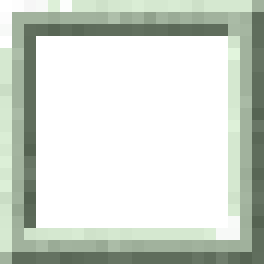
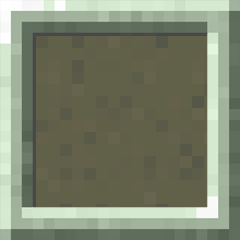
Add files via upload

diff --git a/js/playScreen.js b/js/playScreen.js
@@ -1,4 +1,5 @@
 const playScreen = document.querySelector(".play-screen");
+const screenWidth = document.querySelector(".width-input");
 
 const blocksObj = {
     0: "stone",
@@ -10,38 +11,53 @@ const blocksObj = {
     6: "none",
 };
 
-const blocksMatrix = [
-    [6, 6, 6, 6, 6, 6, 6, 6, 6, 6, 6, 6, 6, 6, 6, 6, 6, 6, 6, 6,],
-    [6, 6, 5, 5, 6, 6, 6, 6, 6, 6, 6, 6, 6, 6, 6, 6, 6, 6, 6, 6,],
-    [6, 6, 6, 5, 5, 6, 6, 6, 6, 6, 6, 6, 6, 6, 5, 5, 6, 6, 6, 6,],
-    [6, 6, 6, 6, 6, 6, 6, 6, 6, 6, 6, 6, 6, 5, 5, 5, 5, 6, 6, 6,],
-    [6, 6, 6, 6, 6, 6, 6, 6, 6, 6, 6, 6, 6, 6, 6, 6, 6, 6, 6, 6,],
-    [6, 6, 6, 6, 6, 6, 6, 6, 6, 6, 6, 6, 6, 6, 6, 6, 6, 6, 6, 6,],
-    [6, 6, 4, 6, 6, 6, 6, 6, 6, 6, 6, 6, 6, 6, 6, 6, 6, 6, 6, 6,],
-    [6, 4, 4, 4, 6, 6, 6, 6, 6, 6, 6, 6, 6, 6, 6, 6, 6, 6, 6, 6,],
-    [6, 4, 4, 4, 6, 6, 6, 6, 6, 6, 6, 6, 6, 6, 6, 6, 6, 6, 6, 6,],
-    [6, 6, 3, 6, 6, 6, 6, 2, 2, 6, 6, 6, 6, 6, 6, 6, 4, 6, 6, 6,],
-    [6 ,6 ,3, 6, 2, 2, 2, 1, 1, 2, 2, 6, 6, 6, 6, 6, 4, 6, 6, 6,],
-    [2, 2, 1, 2, 1, 1, 1, 1, 1, 1, 1, 2, 2, 2, 6, 6, 3, 6, 6, 6,],
-    [1, 1, 1, 1, 1, 1, 1, 1, 1, 1, 1, 1, 1, 1, 2, 2, 1, 2, 2, 2,],
-    [1, 1, 1, 1, 1, 1, 1, 0, 0, 1, 1, 1, 1, 1, 1, 1, 1, 1, 1, 1,],
-    [1, 1, 1, 1, 0, 0, 0, 0, 0, 0, 0, 1, 1, 1, 1, 1, 1, 1, 1, 1,],
-    [0, 0, 0, 0, 0, 0, 0, 0, 0, 0, 0, 0, 0, 0, 1, 1, 1, 1, 1, 1,],
-    [0, 0, 0, 0, 0, 0, 0, 0, 0, 0, 0, 0, 0, 0, 0, 0, 0, 0, 0, 0,],
-    [0, 0, 0, 0, 0, 0, 0, 0, 0, 0, 0, 0, 0, 0, 0, 0, 0, 0, 0, 0,],
-    [0, 0, 0, 0, 0, 0, 0, 0, 0, 0, 0, 0, 0, 0, 0, 0, 0, 0, 0, 0,],
-    [0, 0, 0, 0, 0, 0, 0, 0, 0, 0, 0, 0, 0, 0, 0, 0, 0, 0, 0, 0,],
-];
+const blocksMatrix = [];
+
+// const blockDimensions = screenWidth.value / 30;
+
+function readyScreen() {
+    playScreen.style.width = screenWidth.value + "px";
+    // ready an appropirate matrix
+    for (let i = 0; i < 20; i++) {
+        blocksMatrix.push([]);
+        for (let j = 0; j < 30; j++) {
+            blocksMatrix[i].push(6);
+        }
+    }
+
+    // fill in the stone layers
+    for (let i = 19; i > 16; i--) {
+        for (let j = 0; j <  blocksMatrix[i].length; j++) {
+            blocksMatrix[i][j] = 0;
+        }
+    }
+
+    // fill in the dirt
+    for (let i = 16; i > 14; i--) {
+        for (let j = 0; j <  blocksMatrix[i].length; j++) {
+            blocksMatrix[i][j] = 1;
+        }
+    }
+
+    // fill in the grass
+    for (let i = 14; i > 13; i--) {
+        for (let j = 0; j <  blocksMatrix[i].length; j++) {
+            blocksMatrix[i][j] = 2;
+        }
+    }
+}
 
 export function draw() {
+    readyScreen();
     for (let i = 0; i < blocksMatrix.length; i++) {
         for (let j = 0; j < blocksMatrix[i].length; j++) {
             const block = document.createElement("div");
             block.classList.add(blocksObj[blocksMatrix[i][j]]);
-            block.classList.add("square");
             block.setAttribute("x", j);
             block.setAttribute("y", i);
-            playScreen.appendChild(block)
+            playScreen.appendChild(block);
+            // block.style.height = blockDimensions + "px";
+            // block.style.width = blockDimensions + "px";
         }
     }
 }
@@ -55,6 +71,43 @@ export function draw() {
 
 
 
+
+
+// const blocksMatrix = [
+//     [6, 6, 6, 6, 6, 6, 6, 6, 6, 6, 6, 6, 6, 6, 6, 6, 6, 6, 6, 6,],
+//     [6, 6, 5, 5, 6, 6, 6, 6, 6, 6, 6, 6, 6, 6, 6, 6, 6, 6, 6, 6,],
+//     [6, 6, 6, 5, 5, 6, 6, 6, 6, 6, 6, 6, 6, 6, 5, 5, 6, 6, 6, 6,],
+//     [6, 6, 6, 6, 6, 6, 6, 6, 6, 6, 6, 6, 6, 5, 5, 5, 5, 6, 6, 6,],
+//     [6, 6, 6, 6, 6, 6, 6, 6, 6, 6, 6, 6, 6, 6, 6, 6, 6, 6, 6, 6,],
+//     [6, 6, 6, 6, 6, 6, 6, 6, 6, 6, 6, 6, 6, 6, 6, 6, 6, 6, 6, 6,],
+//     [6, 6, 4, 6, 6, 6, 6, 6, 6, 6, 6, 6, 6, 6, 6, 6, 6, 6, 6, 6,],
+//     [6, 4, 4, 4, 6, 6, 6, 6, 6, 6, 6, 6, 6, 6, 6, 6, 6, 6, 6, 6,],
+//     [6, 4, 4, 4, 6, 6, 6, 6, 6, 6, 6, 6, 6, 6, 6, 6, 6, 6, 6, 6,],
+//     [6, 6, 3, 6, 6, 6, 6, 2, 2, 6, 6, 6, 6, 6, 6, 6, 4, 6, 6, 6,],
+//     [6 ,6 ,3, 6, 2, 2, 2, 1, 1, 2, 2, 6, 6, 6, 6, 6, 4, 6, 6, 6,],
+//     [2, 2, 1, 2, 1, 1, 1, 1, 1, 1, 1, 2, 2, 2, 6, 6, 3, 6, 6, 6,],
+//     [1, 1, 1, 1, 1, 1, 1, 1, 1, 1, 1, 1, 1, 1, 2, 2, 1, 2, 2, 2,],
+//     [1, 1, 1, 1, 1, 1, 1, 0, 0, 1, 1, 1, 1, 1, 1, 1, 1, 1, 1, 1,],
+//     [1, 1, 1, 1, 0, 0, 0, 0, 0, 0, 0, 1, 1, 1, 1, 1, 1, 1, 1, 1,],
+//     [0, 0, 0, 0, 0, 0, 0, 0, 0, 0, 0, 0, 0, 0, 1, 1, 1, 1, 1, 1,],
+//     [0, 0, 0, 0, 0, 0, 0, 0, 0, 0, 0, 0, 0, 0, 0, 0, 0, 0, 0, 0,],
+//     [0, 0, 0, 0, 0, 0, 0, 0, 0, 0, 0, 0, 0, 0, 0, 0, 0, 0, 0, 0,],
+//     [0, 0, 0, 0, 0, 0, 0, 0, 0, 0, 0, 0, 0, 0, 0, 0, 0, 0, 0, 0,],
+//     [0, 0, 0, 0, 0, 0, 0, 0, 0, 0, 0, 0, 0, 0, 0, 0, 0, 0, 0, 0,],
+// ];
+
+// export function draw() {
+//     for (let i = 0; i < blocksMatrix.length; i++) {
+//         for (let j = 0; j < blocksMatrix[i].length; j++) {
+//             const block = document.createElement("div");
+//             block.classList.add(blocksObj[blocksMatrix[i][j]]);
+//             block.classList.add("square");
+//             block.setAttribute("x", j);
+//             block.setAttribute("y", i);
+//             playScreen.appendChild(block)
+//         }
+//     }
+// }
 
 // const blocksMatrix = [
 //     ["none","none","cloud","cloud","none","none","none","none","none","none","none","none","none","none","none","none","none","none","none","none",],

diff --git a/js/inventory.js b/js/inventory.js
@@ -1,19 +1,65 @@
+const inventory = document.querySelectorAll(".slot");
+const inventoryArr = [...inventory];
 
-
-const inventory = {
-    "pickaxe": false,
-    "axe": false,
-    "shovel": false,
-    "dirt": 0,
-    "cobblestone": 0,
-    "oak log": 0,
-    "oak leaves": 0,
+const tools = {
+    pickaxe: {
+        selected: false,
+        mine: ["stone", "cobblestone",],
+    },
+    axe: {
+        selected: false,
+        mine: ["dirt",],
+    },
+    shovel: {
+        selected: false,
+        mine: ["grass", "dirt",],
+    },
 };
 
-export function add(block) {
-    inventory[block] += 1;
+const items = {
+    dirt: {
+        selected: false,
+        count: 0,
+    },
+    cobblestone: {
+        selected: false,
+        count: 0,
+    },
+    log: {
+        selected: false,
+        count: 0,
+    },
+    leaves: {
+        selected: false,
+        count: 0,
+    },
+
+
 }
 
-export function remove(block) {
-    inventory[block] -= 1;
+inventoryArr.forEach((slot, i) => {
+    slot.addEventListener("click", () => {
+        select(i);
+    });
+});
+
+function select(i) {
+    inventory[i].classList.toggle("selected");
+    unselect(i);
+}
+
+function unselect(i) {
+    inventoryArr.forEach((el, j) => {
+        if (i != j) {
+            inventory[j].classList.remove("selected");
+        }
+    })
+}
+
+export function add(block) {
+    items[block] += 1;
+}
+
+export function decrease(block) {
+    items[block] -= 1;
 }

diff --git a/index.html b/index.html
@@ -19,6 +19,7 @@
             <img class="panorama-img pano-img4" src="./imgs/1.18_panorama_3.png" alt="panorama part 4">
         </div> -->
         <img class="logo" src="./imgs/minecraft-logo.png" alt="Minecraft Logo">
+        <div>Please select the width: <input type="text" class="width-input"></div>
         <button class="start-btn">Start</button>
     </div>
 
@@ -28,13 +29,13 @@
         </div>
         <div class="inventory display-none">
             <div class="slot slot1">
-                <img src="./imgs/pickaxe.png" alt="pickaxe">
+                <!-- <img src="./imgs/pickaxe.png" alt="pickaxe"> -->
             </div>
             <div class="slot slot2">
-                <img src="./imgs/axe.png" alt="">
+                <!-- <img src="./imgs/axe.png" alt="axe"> -->
             </div>
             <div class="slot slot3">
-                <img src="./imgs/shovel.png" alt="">
+                <!-- <img src="./imgs/shovel.png" alt="shovel"> -->
             </div>
             <div class="slot slot4"></div>
             <div class="slot slot5"></div>

diff --git a/css/style.css b/css/style.css
@@ -99,10 +99,9 @@ body {
 
 .play-screen {
     height: 90vh;
-    width: 90vmin;
     background-color: skyblue;
     display: grid;
-    grid-template-columns: repeat(20, 1fr);
+    grid-template-columns: repeat(30, 1fr);
     grid-template-rows: repeat(20, 1fr);
 }
 
@@ -146,6 +145,33 @@ body {
 }
 
 .inventory .slot img {
-    height: 80%;
-    width: 80%;
+    height: 70%;
+    width: 70%;
+}
+
+.inventory .slot.selected {
+    background: url("../imgs/inventory-select.png") center center / cover no-repeat;
+    height: 10vh;
+    width: 10vmin;
+}
+
+.inventory .slot1::before {
+    content: "";
+    background: url("../imgs/pickaxe.png") center center / cover no-repeat;
+    height: 70%;
+    width: 70%;
+}
+
+.inventory .slot2::before {
+    content: "";
+    background: url("../imgs/axe.png") center center / cover no-repeat;
+    height: 70%;
+    width: 70%;
+}
+
+.inventory .slot3::before {
+    content: "";
+    background: url("../imgs/shovel.png") center center / cover no-repeat;
+    height: 70%;
+    width: 70%;
 }

diff --git a/js/game.js b/js/game.js
@@ -1,4 +1,5 @@
 import { draw } from "./playScreen.js";
+import {} from "./inventory.js";
 
 const landingPage = document.getElementById("landing-page");
 const startBtn = document.querySelector(".start-btn");
